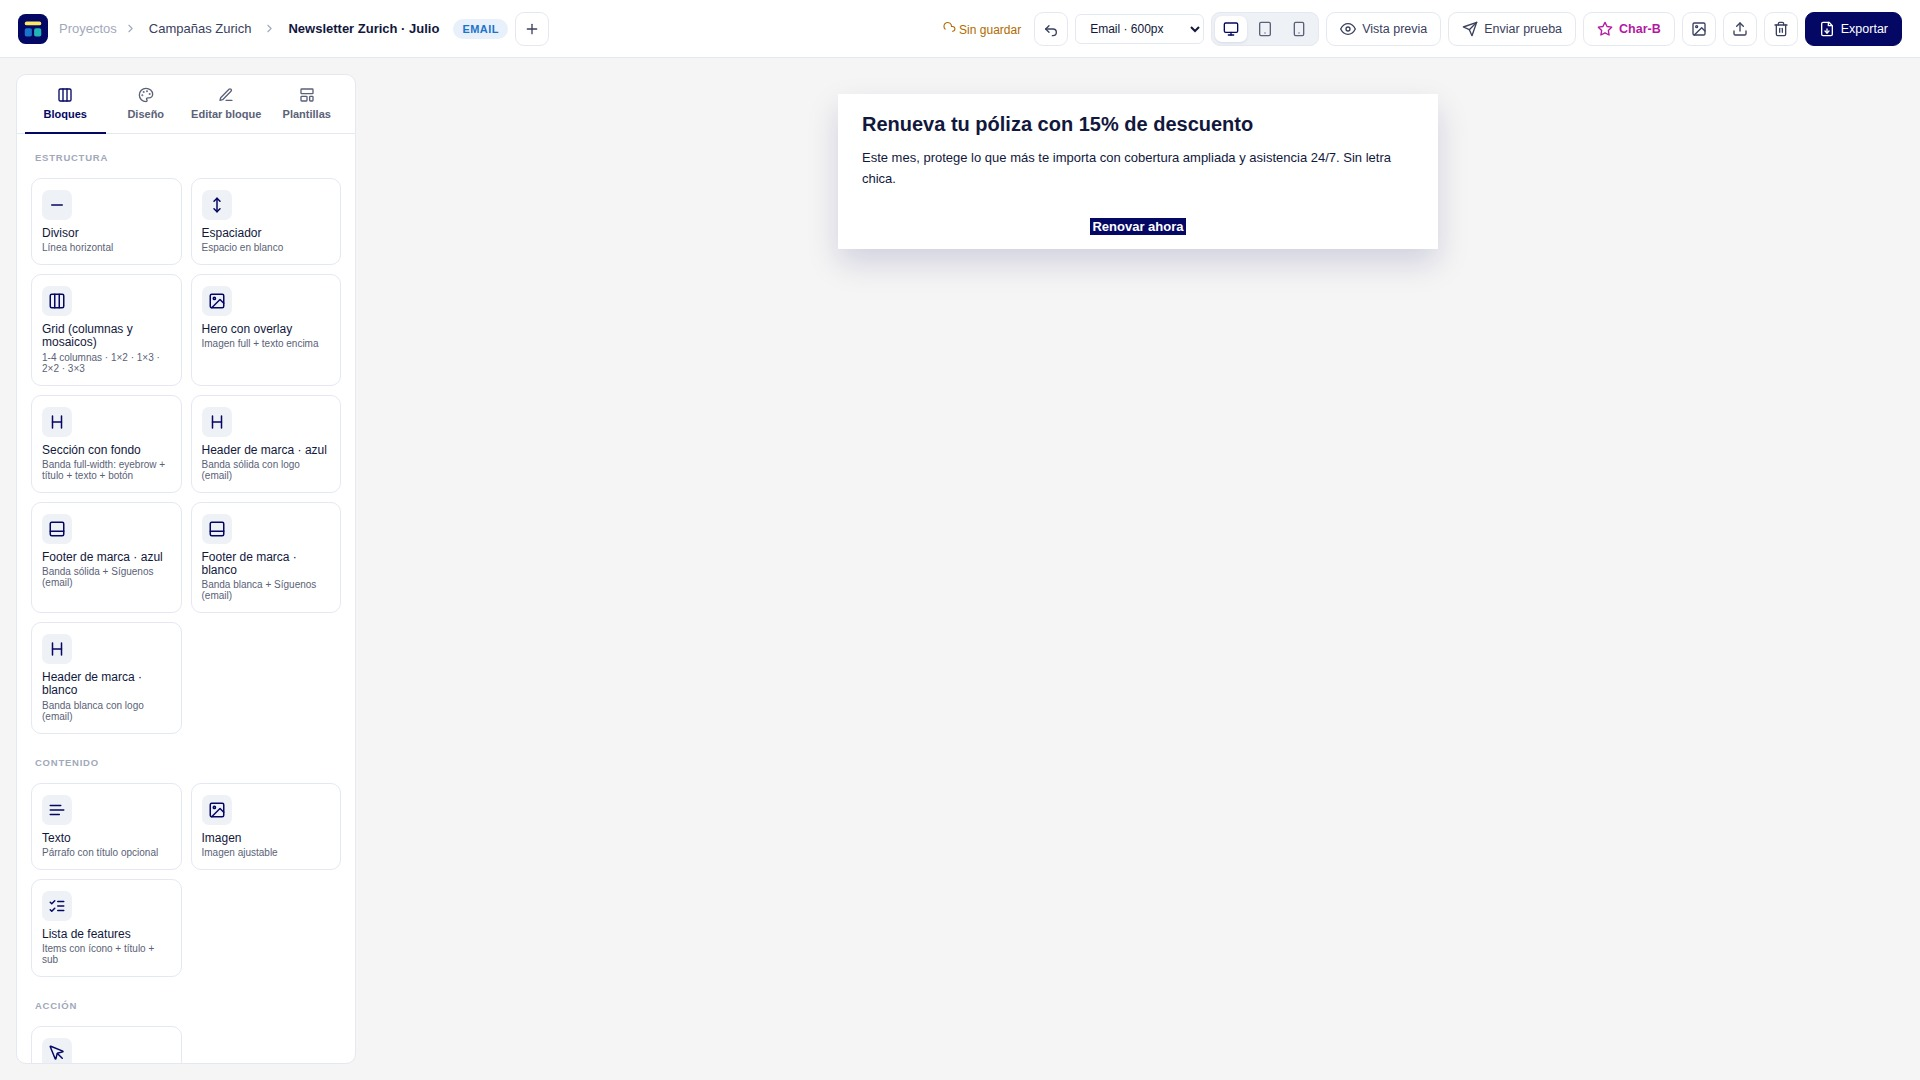
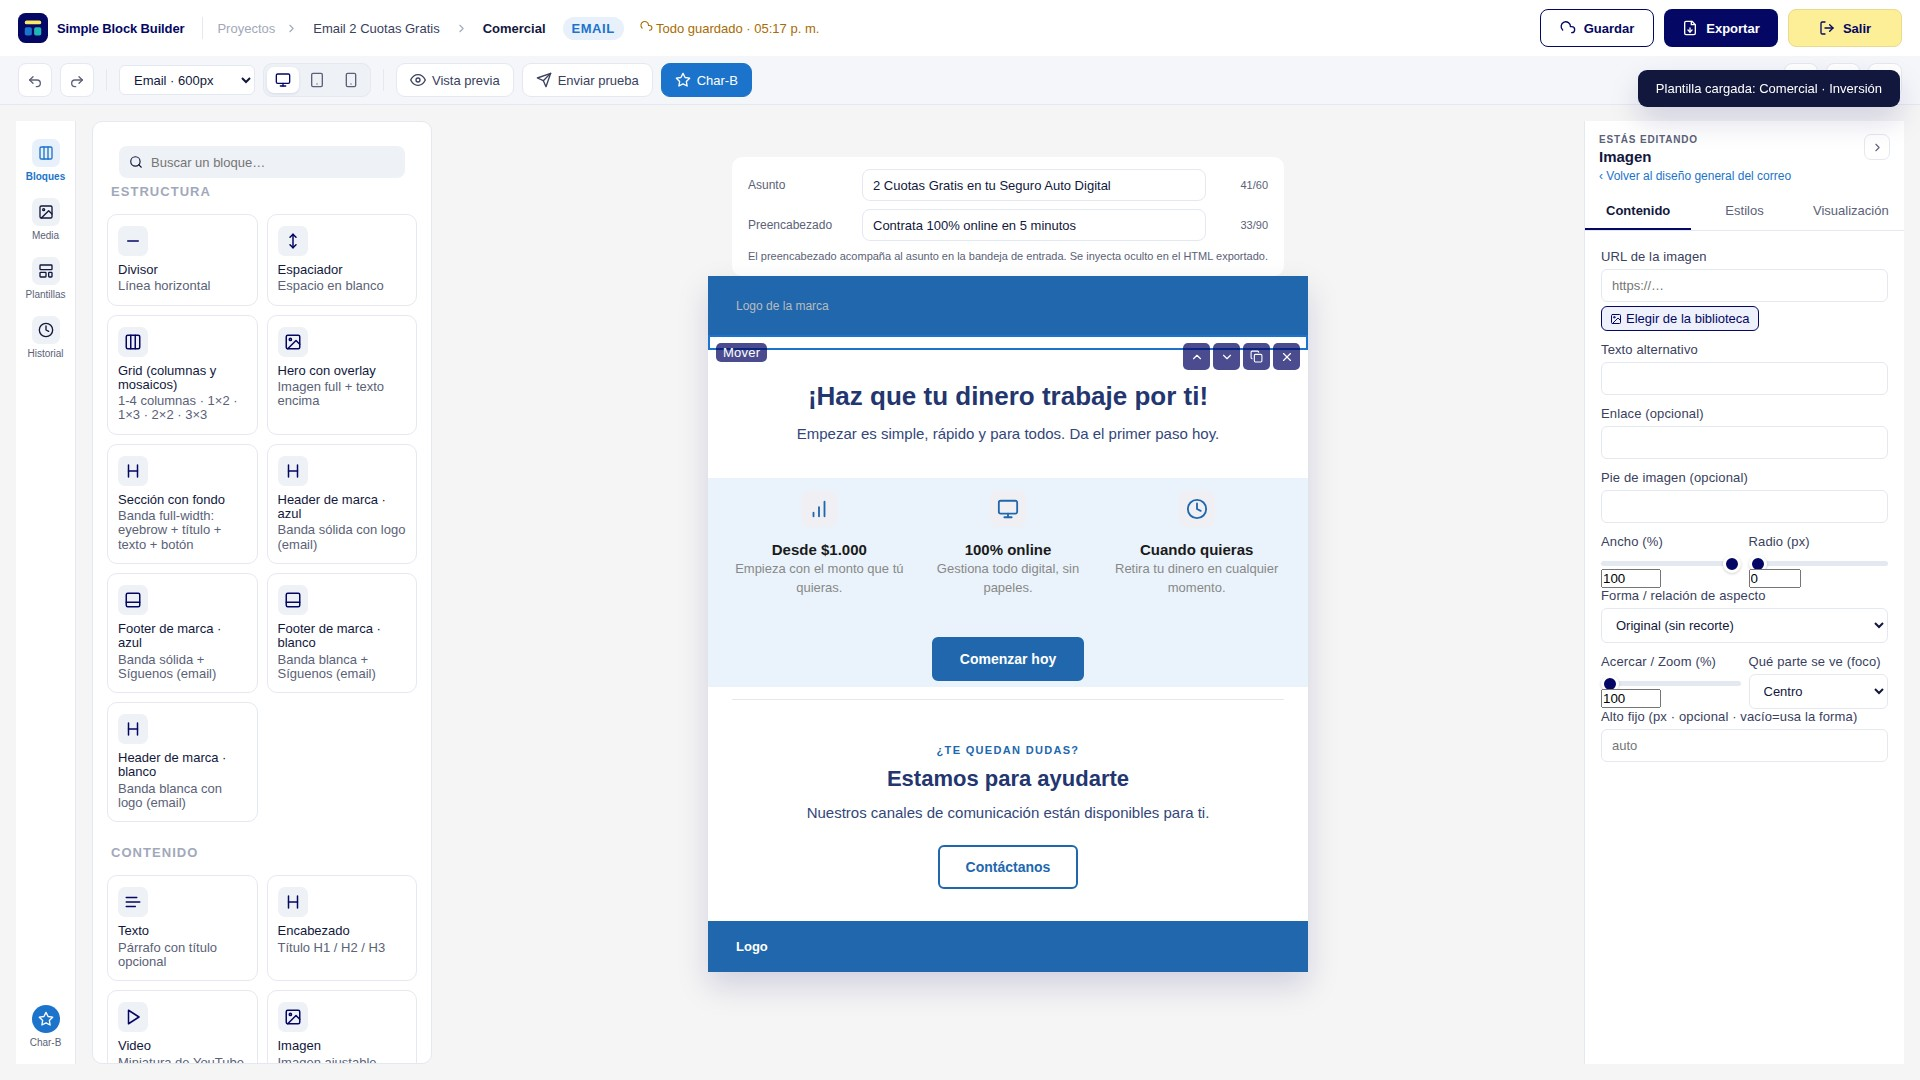
CLAUDE.md: estado del editor de email 3 zonas + captura de entregable actualizada
Claude-Session: https://claude.ai/code/session_01VBf8Rtsx2bnoCNVJFeoujh

diff --git a/CLAUDE.md b/CLAUDE.md
@@ -383,6 +383,17 @@ UI: Home réplica del mockup del usuario (hero Char-B con su FOTO, 4 tarjetas Cr
 DISPLAY (caballito de batalla, TODO verificado con Playwright): escala proporcional SIN tope (`escF=ancho/300`, franjas alto/110; título 26→104 en 1200×1200, logo 48→192, igual en export); lienzo muestra el banner COMPLETO (tamaño real si cabe; si no, reduce lo justo con rótulo "vista al N%", mide `wrap.clientWidth`); píldoras de tamaños arriba (activa navy, M amarilla=máster, punto azul=ajustado); edición inline compensa escala (clones escalados + grips mueven el clon); prearmado nace navy #0e2748 con textos visibles (nunca blanco/blanco); RECETAS de variedad por campaña (rotación pura por nº piezas: alineación/burbuja tr-tl-br/deco/velo/prop) + variantes por formato (burbuja OFF en franjas y ≤250, cr en verticales, br en 1200×1200); guardado explícito ("Todo guardado · HH:MM").
 NOMBRES/PATHS: todo trabajo directo pide nombre vía **diálogo propio de Char-B** (`pedirNombreTrabajo`, cancelar aborta; crearDesde es async); URL con slug `/gdn-ia/mi-campana` (slugDe); F5/Enter reabre ESA pieza (deep-link manda sobre sbb-ultima); `_redirects` con wildcards `/seccion/*`; accesos del Home CREAN (`crearTrabajoHome`), deep-links restauran.
 OTROS: bucket R2 = **zurich-chile** (binding IMAGENES en wrangler.toml); botón "Vaciar biblioteca guardada"; plantillas email = estilo Zurich real (3); ia.js lee también la landing (ctaUrl) + regla dura de ortografía; proyectos fantasma movidos a Papelera (quedan 3 reales); tope IA por usuario en D1 (`ia_uso`).
+## Sesión 23-jul (tarde): EDITOR DE EMAIL "3 ZONAS" (ESTADO ACTUAL — no rehacer)
+Implementación del mockup aprobado por el usuario (síntesis A + Stitch + B; los mockups viven en el scratchpad de la sesión, la espec es el propio código). **Solo formato email** (`esModoEmail3()`: email && !esComposicion); libre/display/ads intactos. Clase `email3` en `#layout`, activada por `actualizarUISet` y `cambiarFormato`.
+- **Layout**: rail `#ed-rail` (Bloques·Media·Plantillas·Historial·Char-B; Media abre la biblioteca modal) + biblioteca izquierda (con **buscador** `filtrarBiblioteca`) + lienzo + **panel DERECHO** `#panel-der` con pestañas **Contenido/Estilos/Visualización** (`setP3`; partición en `renderForm`: campos propios→Contenido, `styleFields`→Estilos, `visualCamposHTML`→Visualización). `#pane-editar` y `#pane-diseno` se REPARENTAN a `#pd-cuerpo` en email3 y vuelven al panel izquierdo al salir (`actualizarModoEmail3`). Paneles ocultables (`colPanel`, clases `sin-izq/sin-der` + flechas `.exp-lat`). Sin bloque seleccionado el panel derecho muestra el Diseño general (`actualizarPanelDer`, link `pdVolverGeneral`).
+- **Asunto + preencabezado** por pieza (`p.asunto`/`p.preheader`, barra `#asunto-bar` con contadores 60/90) → export email: `<title>` = asunto y div oculto `mso-hide:all` tras `<body>`.
+- **Bloques nuevos**: `heading` (Encabezado H1/H2/H3, tamaño auto 28/22/18 por nivel) y `video` (miniatura `img.youtube.com` + play CSS `.sbb-video-play`, enlazada). En `BLOQUES_EMAIL_IA` y `BLOQUE_ICONO` (ícono `video` agregado a ICONOS_SVG).
+- **Visibilidad por dispositivo** (`datos.verEn`: ''|desktop|movil): `wrap()` pone clase `sbb-ver-*`; export lleva media query 540px (COMPONENT STYLES); en el editor se ATENÚA según `dev-movil` del canvas-frame (no se oculta).
+- **Candado de marca** (`datos.bloqueado`): solo admin bloquea (`toggleBloqueoBloque`, pestaña Visualización); usuarios limitados (`esAdminUI()` — sin whoami no bloquea, clave para tests) no editan/borran (guardas en `eliminarBloque`/`actualizarDato`/inline; `bwHTML` sin controles + `.bw-lock-ico`) y ven tarjeta `lock-card`.
+- **Variables de personalización** (bloque Texto, campo `{tipo:"mergetag"}` → `mergeTagUI`/`insertarMergeTag`): HubSpot `{{ contact.firstname || "fb" }}`, Mailchimp `*|IF:FNAME|*…`, SFMC `%%FirstName%%`.
+- **Divisor** campo `anchoLinea` (% centrado) · **espaciador estirable** (grip `.esp-grip` editor-only en `attachEspGrip`, no sale en export) · **salud del correo** (`renderSaludEmail`: URLs absolutas, asunto/preheader, alt de fotos, CTAs múltiples, peso KB) · **historial de sesión con hora** (`_undoTs` paralelo a `_undo`, panel `pane-historial`, `restaurarVersion` no destructivo) · **scrollbars finas** globales (estándar + webkit).
+- Verificado: **veri-email3.js 31/31** (arnés en scratchpad: server + mocks + diálogo #pnt-inp) + recorrido completo sin errores. Pendientes conscientes: escala tipográfica global H1/H2/H3 en Diseño (el bloque ya es semántico), historial persistente entre sesiones, panel Media embebido (hoy abre la biblioteca modal).
+
 **ETAPA 3 (siguiente sesión) — PRIORIDAD MÁXIMA, deadline comprometido 18:00 Chile.** El usuario pegará la lista de "áreas de mejora" de la directora de Zurich; armar plan ordenado, confirmarlo con él, y ejecutar punto a punto con Playwright antes de cada push. **LOS 4 FRENTES CRÍTICOS (palabras del usuario: "nuestro mayor problema ahora"):**
 1. **NAVEGACIÓN** del aplicativo (flujos entre home/proyectos/editor, dónde estoy, cómo vuelvo).
 2. **INTERFAZ + USO + DISEÑO DEL EDITOR** (el editor de banners/bloques: claridad del panel, orden de los controles, que se entienda sin explicación — revisar con ojos de la directora, no de programador).